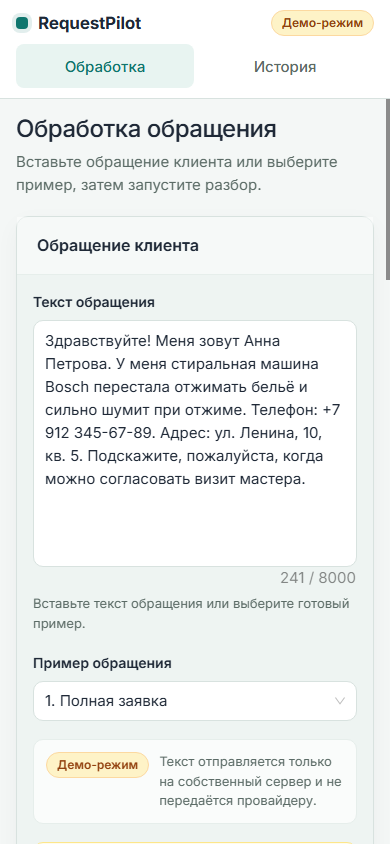
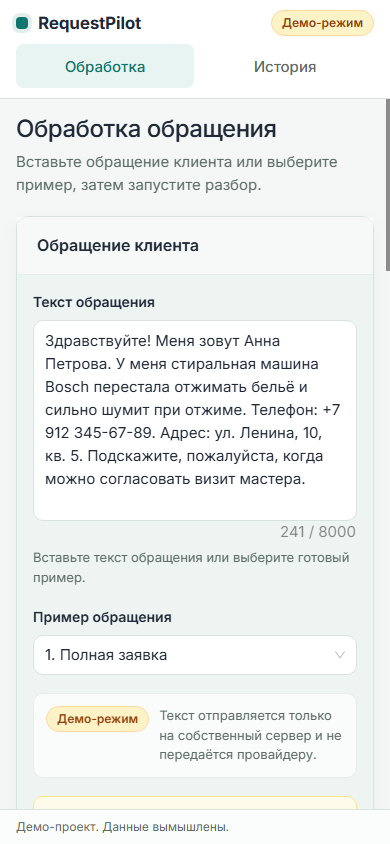
Сделать независимые панели и закрепить футер

Changed region(s): [[0.0308, 0.6161, 0.9231, 1.0], [0.9846, 0.3081, 1.0, 0.3389]]

diff --git a/src/styles/responsive.css b/src/styles/responsive.css
@@ -1,9 +1,52 @@
 @media (min-width: 1024px) {
-  .surface--source {
-    position: sticky;
-    top: 24px;
-    max-height: calc(100vh - 112px);
+  .page--workspace .process-grid {
+    flex: 1 1 auto;
+    min-height: 0;
+    align-items: stretch;
+  }
+
+  .page--workspace .surface {
+    display: flex;
+    flex-direction: column;
+    min-height: 0;
+    height: 100%;
+  }
+
+  .page--workspace .surface__body {
+    flex: 1 1 auto;
+    min-height: 0;
     overflow-y: auto;
+    scrollbar-gutter: stable;
+    scrollbar-width: thin;
+    scrollbar-color: #b9cfca transparent;
+  }
+
+  .page--workspace .surface__body::-webkit-scrollbar {
+    width: 8px;
+  }
+
+  .page--workspace .surface__body::-webkit-scrollbar-thumb {
+    border-radius: 999px;
+    background: #b9cfca;
+  }
+
+  .page--workspace .surface__body::-webkit-scrollbar-track {
+    background: transparent;
+  }
+
+  .page--workspace .surface--source {
+    position: static;
+    max-height: none;
+    overflow: hidden;
+  }
+
+  .page--saved .process-grid {
+    grid-template-rows: minmax(0, 1fr);
+  }
+
+  .page--saved .surface--source {
+    height: auto;
+    align-self: start;
   }
 }
 
@@ -54,6 +97,11 @@
 
   .app-main {
     padding: 16px;
+  }
+
+  .app-footer__inner {
+    padding: 8px 16px;
+    font-size: 12px;
   }
 
   .page-heading h1 {

diff --git a/src/pages/ProcessPage.tsx b/src/pages/ProcessPage.tsx
@@ -290,7 +290,7 @@ export function ProcessPage() {
           : ''
 
   return (
-    <div className="page">
+    <div className="page page--workspace">
       <div className="page-heading">
         <h1>Обработка обращения</h1>
         <p>Вставьте обращение клиента или выберите пример, затем запустите разбор.</p>
@@ -326,7 +326,7 @@ export function ProcessPage() {
                 value={text}
                 onChange={(event) => handleTextChange(event.target.value)}
                 placeholder="Например: стиральная машина не сливает воду, нужен мастер. Укажите телефон и адрес."
-                autoSize={{ minRows: 10, maxRows: 18 }}
+                autoSize={{ minRows: 8, maxRows: 18 }}
                 maxLength={maxLength}
                 showCount
                 disabled={request.status === 'loading' || saving}

diff --git a/src/app/Layout.tsx b/src/app/Layout.tsx
@@ -47,11 +47,11 @@ export function Layout() {
         <main className="app-main" id="main-content">
           <Outlet />
         </main>
-
-        <footer className="app-footer">
-          <div className="app-footer__inner">Демонстрационный проект. Данные клиентов вымышлены.</div>
-        </footer>
       </div>
+
+      <footer className="app-footer">
+        <div className="app-footer__inner">Демо-проект. Данные вымышлены.</div>
+      </footer>
     </div>
   )
 }

diff --git a/src/styles/layout.css b/src/styles/layout.css
@@ -91,11 +91,14 @@
 }
 
 .app-main {
-  flex: 1 0 auto;
+  flex: 1 1 auto;
+  min-height: 0;
   width: 100%;
   max-width: 1440px;
   margin: 0 auto;
   padding: 24px;
+  display: flex;
+  flex-direction: column;
 }
 
 .app-footer {
@@ -116,6 +119,11 @@
   display: flex;
   flex-direction: column;
   gap: 20px;
+}
+
+.page--workspace {
+  flex: 1 1 auto;
+  min-height: 0;
 }
 
 .page-heading h1 {

diff --git a/src/pages/SavedAnalysisPage.tsx b/src/pages/SavedAnalysisPage.tsx
@@ -59,7 +59,7 @@ export function SavedAnalysisPage() {
   }
 
   return (
-    <div className="page">
+    <div className="page page--workspace page--saved">
       <div className="page-heading">
         <Link className="back-link" to="/history">
           К истории

diff --git a/README.md b/README.md
@@ -20,6 +20,8 @@
 - `GET /api/config`: режим, провайдер, модель и лимит текста.
 - Главный экран: выбор примера, разбор, отмена запроса, редактирование полей,
   списки недостающих сведений и вопросов, черновик ответа.
+- Рабочий стол: шапка и футер закреплены, колонки обработки и карточки прокручиваются
+  независимо. На мобильном остаётся одна общая прокрутка.
 - Подтверждение и сохранение: запись в IndexedDB, переход к сохранённому разбору,
   защита от дублей и лимит 100 записей.
 - Защита несохранённых изменений: подтверждение при уходе, выборе другого примера,
@@ -135,7 +137,7 @@ npm run build
 ## Скриншоты
 
 - [Обработка обращения](docs/processing.png)
-- [Прокрутка: шапка остаётся вне области скролла](docs/processing-scrolled.png)
+- [Прокрутка: независимые колонки, шапка и футер закреплены](docs/processing-scrolled.png)
 - [История](docs/history.png)
 - [Сохранённый разбор](docs/saved.png)
 - [Мобильная версия](docs/mobile.png)

diff --git a/request-pilot.md b/request-pilot.md
@@ -1012,6 +1012,10 @@ function normalizeForMatch(value: string): string {
     при закрытии вкладки.
   - Устаревший результат блокирует сохранение; возврат исходного текста снимает
     блокировку.
+  - Рабочий экран: шапка и футер закреплены, колонки обработки и карточки
+    прокручиваются независимо. На странице сохранённого разбора левая карточка
+    занимает высоту контента, а правая прокручивается. На мобильном остаётся одна
+    общая прокрутка.
   - Ошибки сохранения: лимит 100 записей, недоступное или повреждённое хранилище,
     квота. При ошибке сотрудник остаётся на странице, правки сохраняются.
   - Проверки: полный сценарий пример -> разбор -> правки -> подтверждение ->
